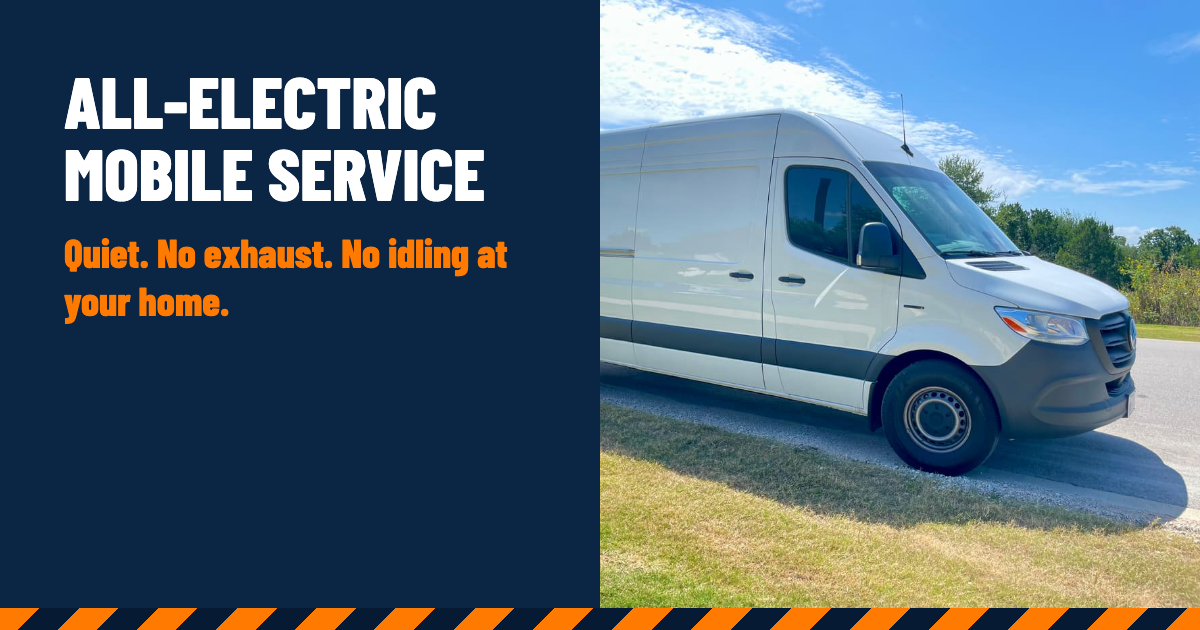
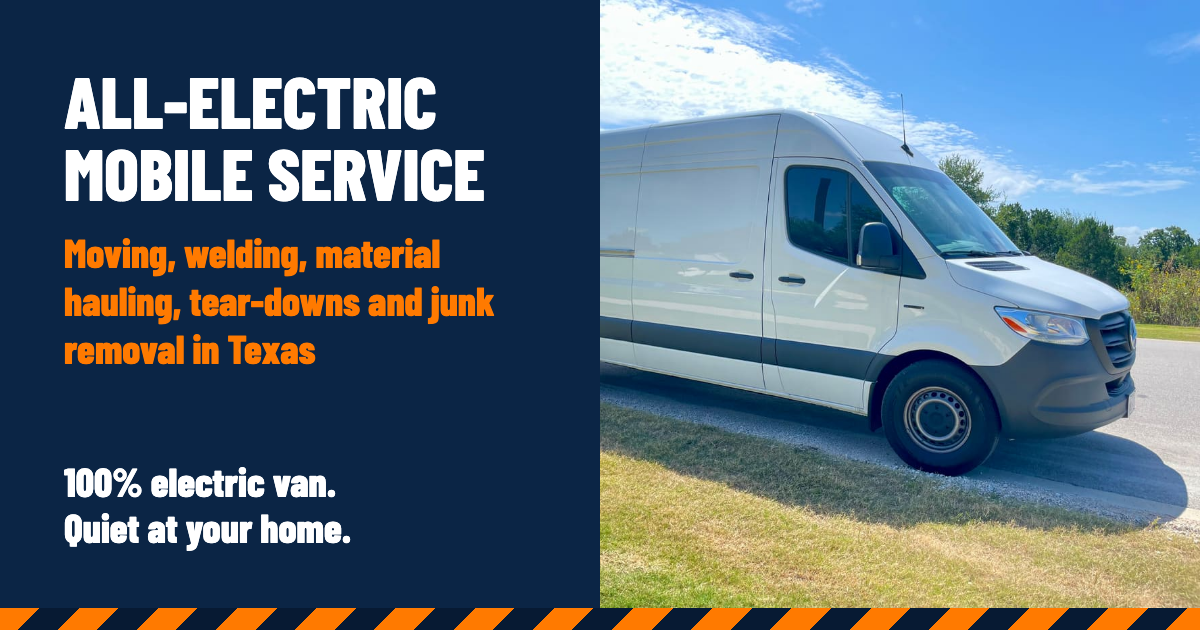
Add moving, welding, materials, tear-down and junk removal services

Changed region(s): [[0.0308, 0.3619, 0.4317, 0.6032], [0.0308, 0.7238, 0.3083, 0.8746]]

diff --git a/scripts/test.ts b/scripts/test.ts
@@ -4,6 +4,7 @@
 import { execSync, spawn } from 'node:child_process';
 import { mkdirSync, readFileSync, existsSync } from 'node:fs';
 import { chromium, type Page } from 'playwright';
+import { business } from '../src/data/business.ts';
 
 const SHOTS = process.env.SHOTS || 'test-shots';
 mkdirSync(SHOTS, { recursive: true });
@@ -57,9 +58,9 @@ try {
   }
 
   // Service buttons.
-  await page.locator('#services a[data-service="Water heater install"]').click();
+  await page.locator('#services a[data-service="Building tear-down"]').click();
   await page.waitForTimeout(100);
-  ok(await page.locator('#quote-service').inputValue() === 'Water heater install', 'quote button preselects the service');
+  ok(await page.locator('#quote-service').inputValue() === 'Building tear-down', 'quote button preselects the service');
   ok(await page.locator('#services a', { hasText: 'Book this' }).first().getAttribute('href') === 'https://example.com/square-booking', 'book button goes to Square');
   ok(await page.locator('#plans a[data-service]').count() === 1, 'plan without a Square link opens the form');
 
@@ -97,7 +98,7 @@ try {
   await page.goto(S + '/');
   ok(await page.getByText('Thanks for scanning').count() === 0, 'home has no van banner');
   const ld = JSON.parse((await page.locator('script[type="application/ld+json"]').textContent())!);
-  ok(ld['@type'] === 'HomeAndConstructionBusiness' && ld.areaServed?.length === 3 && !ld.address, 'JSON-LD: type, areaServed, no street address');
+  ok(ld['@type'] === 'MovingCompany' && ld.areaServed?.length === 3 && !ld.address, 'JSON-LD: type, areaServed, no street address');
   ok(await page.locator('meta[property="og:image"]').getAttribute('content') === 'https://example.com/og.png', 'OG image');
 
   // Redirects on Cloudflare's server.
@@ -124,10 +125,16 @@ try {
   ok(await page.locator('h1').isVisible(), 'real: page renders');
   ok(await page.getByText('eSprinter').count() > 0, 'real: eSprinter featured');
   ok(await page.getByText('Brings its own power').count() === 0, 'real: own-power toggle is off by default');
-  const hidden = (await page.locator('main section').evaluateAll((s) => s.map((x) => x.id))).join();
-  ok(hidden === 'why', `real: only filled-in sections show (got ${hidden})`);
-  ok(await page.locator('a[href^="tel:"], a[href^="sms:"], form').count() === 0, 'real: no contact links until a phone is set');
-  ok((await fetch(R + '/book', { redirect: 'manual' })).headers.get('location')?.endsWith('/'), 'real: /book goes home until set');
+  // Whatever the config leaves blank must stay hidden.
+  const ids = await page.locator('main section').evaluateAll((els) => els.map((x) => x.id));
+  const shows = (id: string, should: boolean) => ok(ids.includes(id) === should, `real: section ${id} ${should ? 'shows' : 'stays hidden'}`);
+  shows('services', business.trades.length > 0);
+  shows('plans', business.plans.length > 0);
+  shows('work', business.photos.gallery.length > 0);
+  shows('reviews', business.reviews.length > 0);
+  shows('faq', Object.values(business.faq).some(Boolean) || !!business.links.deposit);
+  if (!business.phone) ok(await page.locator('a[href^="tel:"], a[href^="sms:"]').count() === 0, 'real: no call or text links until a phone is set');
+  if (!business.links.booking) ok((await fetch(R + '/book', { redirect: 'manual' })).headers.get('location')?.endsWith('/'), 'real: /book goes home until set');
 } finally {
   await browser.close();
   for (const s of servers) try { process.kill(-s.pid!); } catch {}

diff --git a/src/data/business.ts b/src/data/business.ts
@@ -9,15 +9,13 @@ export const business: Business = {
   // ---------- WHO ----------
   name: '', // TODO: business name
   logo: '', // TODO (optional): put the file in public/ and write e.g. '/logo.svg'
-  whatIDo: '', // TODO: a few words, e.g. 'Plumbing and home repairs'
+  whatIDo: 'Moving, welding, material hauling, tear-downs and junk removal',
 
   // Navy + safety orange, proposed. Change these to match the van wrap.
   colors: { brand: '#0B2545', brandDeep: '#071A33', accent: '#FF7A00', accentInk: '#0B1B33' },
 
-  // TODO: the most specific type for your trade, for Google. Options: Plumber, Electrician,
-  // HVACBusiness, Locksmith, HousePainter, RoofingContractor, GeneralContractor.
-  // This default fits any home-service trade.
-  schemaType: 'HomeAndConstructionBusiness',
+  // The most specific type for Google. Moving is your top priority, so this says MovingCompany.
+  schemaType: 'MovingCompany',
 
   // ---------- SERVICES ----------
   // TODO: your services, grouped by trade. Copy this shape:
@@ -31,7 +29,27 @@ export const business: Business = {
   //   ],
   // },
   // price type: 'flat' | 'from' (both need amount) | 'estimate' (free estimate) | 'none'
-  trades: [],
+  // In your priority order. TODO: add prices when you have them.
+  trades: [
+    { name: 'Moving', services: [
+      { name: 'Moving in Texas', description: 'Moving your things to their new place, anywhere in Texas.',
+        price: { type: 'none' }, action: 'quote' },
+    ] },
+    { name: 'Welding', services: [
+      { name: 'Small welding jobs', description: 'Small welding repairs and projects.',
+        price: { type: 'none' }, action: 'quote' },
+    ] },
+    { name: 'Building materials', services: [
+      { name: 'Building material delivery', description: 'Picking up building materials and bringing them to your job or home.',
+        price: { type: 'none' }, action: 'quote' },
+    ] },
+    { name: 'Tear-down and junk', services: [
+      { name: 'Building tear-down', description: 'Taking down a building or structure.',
+        price: { type: 'none' }, action: 'quote' },
+      { name: 'Junk removal', description: 'Loading up your junk and hauling it away.',
+        price: { type: 'none' }, action: 'quote' },
+    ] },
+  ],
 
   // TODO (recommended, this is your steady income): a monthly or yearly care plan.
   // Copy this shape:
@@ -41,7 +59,7 @@ export const business: Business = {
 
   // ---------- WHERE AND WHEN ----------
   area: {
-    summary: '', // TODO: e.g. 'Austin and Round Rock'
+    summary: 'Texas', // TODO: name your home base if welding and tear-downs aren't statewide
     places: [], // TODO: e.g. ['Austin', 'Round Rock', 'Pflugerville']. Also used for Google.
   },
   hours: [], // TODO: e.g. { days: 'Mon-Fri', time: '8 AM-6 PM', schema: 'Mo-Fr 08:00-18:00' }
@@ -65,7 +83,8 @@ export const business: Business = {
 
   // ---------- CREDENTIALS (only what's true) ----------
   credentials: {
-    licenses: [], // TODO: e.g. { label: 'Texas Master Plumber', number: 'M-00000' }
+    // TODO: your TxDMV mover registration, once you have it: { label: 'TxDMV', number: '000000' }
+    licenses: [],
     insurance: '', // TODO: e.g. 'Fully insured'
     warranty: '', // TODO: e.g. '1-year warranty on labor'
   },

diff --git a/src/data/sample.ts b/src/data/sample.ts
@@ -11,18 +11,20 @@ const pic = (label: string, bg: string) =>
 export const sample: Business = {
   ...business,
   name: 'Sample Trades Co.',
-  whatIDo: 'Plumbing and home repairs',
+  whatIDo: 'Moving, welding, material hauling, tear-downs and junk removal',
+  plans: [{ name: 'Sample Care Plan', price: '$29/month (sample)', description: 'A sample plan, showing where a real one will go.', includes: ['Sample benefit one', 'Sample benefit two'], signupUrl: '' }],
   trades: [
-    { name: 'Plumbing', services: [
-      { name: 'Faucet replacement', description: 'Old one out, new one in, tested for leaks.', price: { type: 'from', amount: 150 }, action: 'book' },
-      { name: 'Water heater install', description: 'Tank or tankless, old unit hauled away.', price: { type: 'estimate' }, action: 'quote' },
+    { name: 'Moving', services: [
+      { name: 'Moving in Texas', description: 'Moving your things to their new place.', price: { type: 'from', amount: 150 }, action: 'book' },
     ] },
-    { name: 'Home repairs', services: [
-      { name: 'One-hour repair visit', description: 'A list of small fixes, done in one visit.', price: { type: 'flat', amount: 125 }, action: 'book' },
-      { name: 'Drywall patch', description: 'Patched, sanded and ready for paint.', price: { type: 'none' }, action: 'quote' },
+    { name: 'Welding', services: [
+      { name: 'Small welding jobs', description: 'Small welding repairs and projects.', price: { type: 'flat', amount: 125 }, action: 'book' },
+    ] },
+    { name: 'Tear-down and junk', services: [
+      { name: 'Building tear-down', description: 'Taking down a building or structure.', price: { type: 'estimate' }, action: 'quote' },
+      { name: 'Junk removal', description: 'Loading up your junk and hauling it away.', price: { type: 'none' }, action: 'quote' },
     ] },
   ],
-  plans: [{ name: 'Home Care Plan', price: '$29/month', description: 'A yearly check-up and a better rate on everything else.', includes: ['Yearly home check-up', '10% off repairs', 'First in line when you text'], signupUrl: '' }],
   area: { summary: 'Sampletown and nearby', places: ['Sampletown', 'Exampleville', 'Testburg'] },
   hours: [{ days: 'Mon-Fri', time: '8 AM-6 PM', schema: 'Mo-Fr 08:00-18:00' }, { days: 'Sat', time: '9 AM-2 PM', schema: 'Sa 09:00-14:00' }],
   hoursNote: 'After-hours emergencies by text.',

diff --git a/src/lib/derive.ts b/src/lib/derive.ts
@@ -98,7 +98,7 @@ export function todos(): { item: string; blocker?: boolean }[] {
   need(b.links.deposit, 'Square deposit payment link');
   need(b.links.googleReview, 'Google review link');
   need(b.socials, 'Social links (optional)');
-  need(b.credentials.licenses, 'License numbers, if any');
+  need(b.credentials.licenses, 'TxDMV mover registration number, and any other licenses');
   need(b.credentials.insurance, 'Insurance');
   need(b.credentials.warranty, 'Warranty');
   need(b.owner.name, 'Your first name');
@@ -110,6 +110,6 @@ export function todos(): { item: string; blocker?: boolean }[] {
   for (const [k, v] of Object.entries(b.faq)) need(v, `FAQ answer: ${k}`);
   need(b.web3formsKey, 'Web3Forms key (turns on the quote form)');
   need(b.cloudflareAnalyticsToken, 'Cloudflare Web Analytics token');
-  if (b.schemaType === 'HomeAndConstructionBusiness') out.push({ item: 'Most specific Google business type (schemaType)' });
+  if (b.trades.flatMap((t) => t.services).every((s) => s.price.type === 'none')) out.push({ item: 'Service prices' });
   return out;
 }

diff --git a/README.md b/README.md
@@ -55,6 +55,10 @@ The form uses [Web3Forms](https://web3forms.com): free for about 250 submissions
 
 Get a key by entering your email at web3forms.com, and put it in `web3formsKey`. After the first deploy, send yourself a test request.
 
+## Before you advertise moving
+
+Texas requires TxDMV registration, a USDOT number and filed insurance to move household goods for pay, even in a small vehicle. Check the current rules at txdmv.gov/motor-carriers, then add your number under `credentials.licenses`.
+
 ## Short links
 
 | Link | Goes to |
